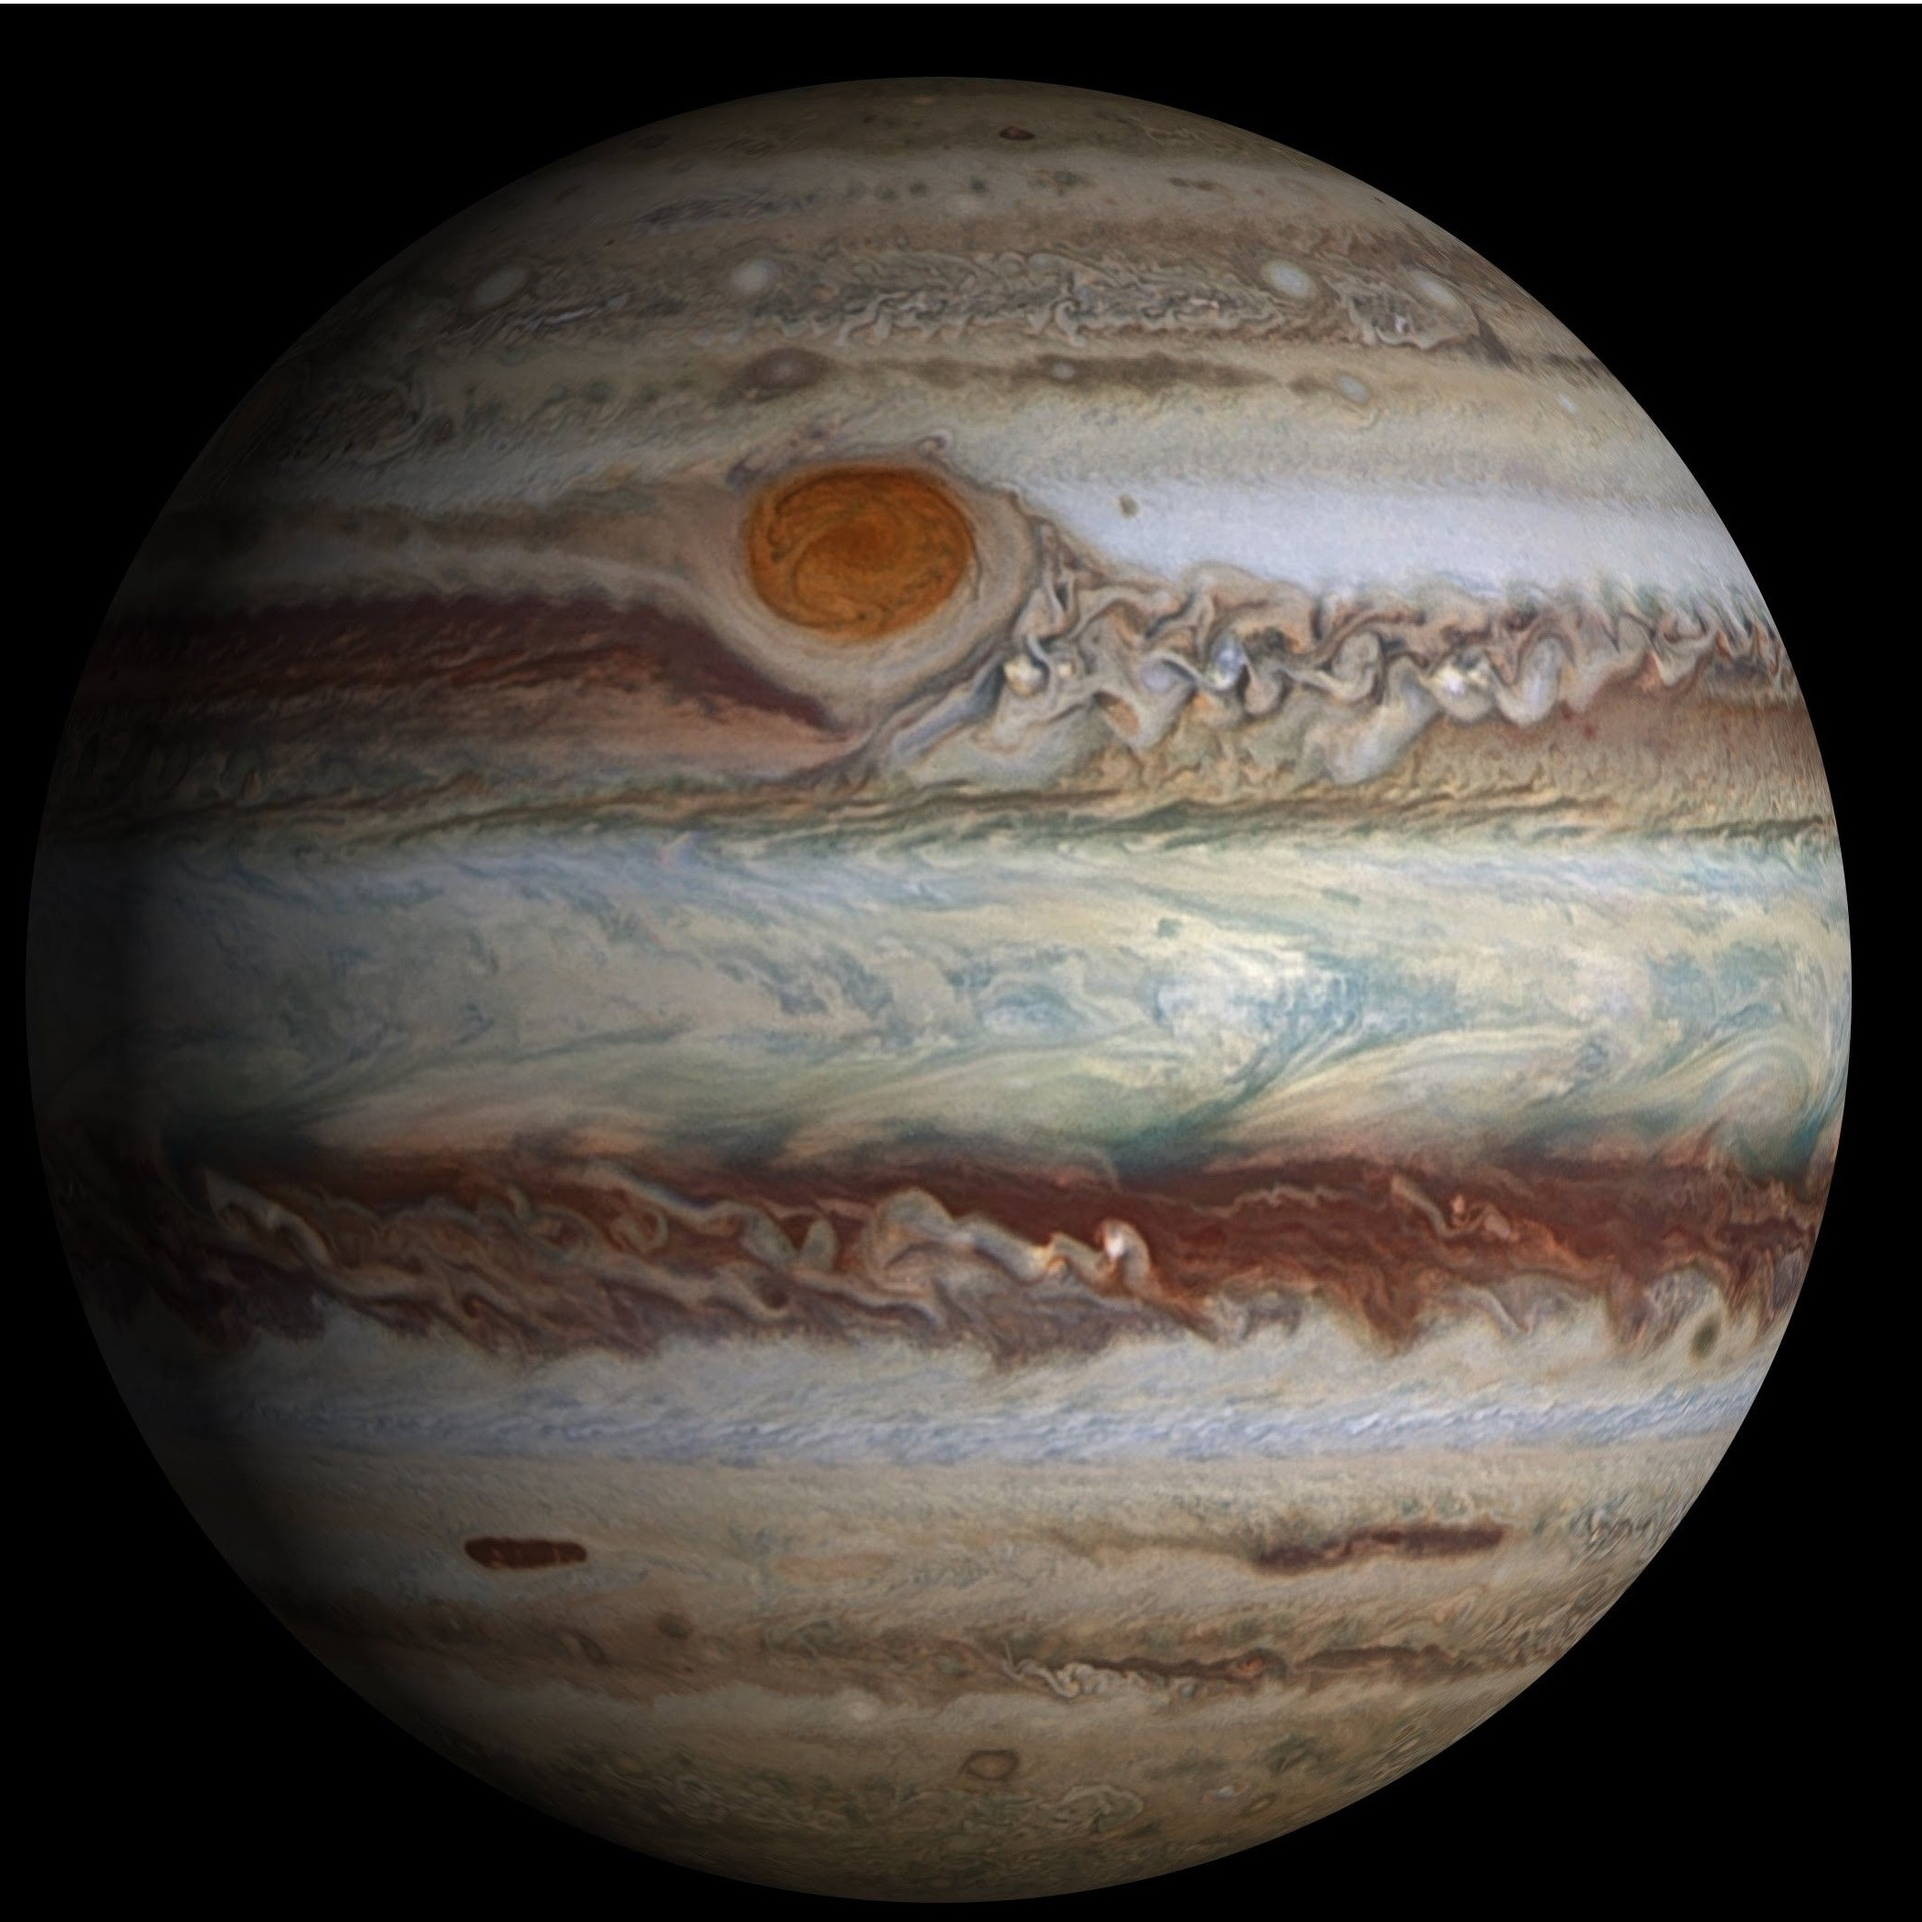
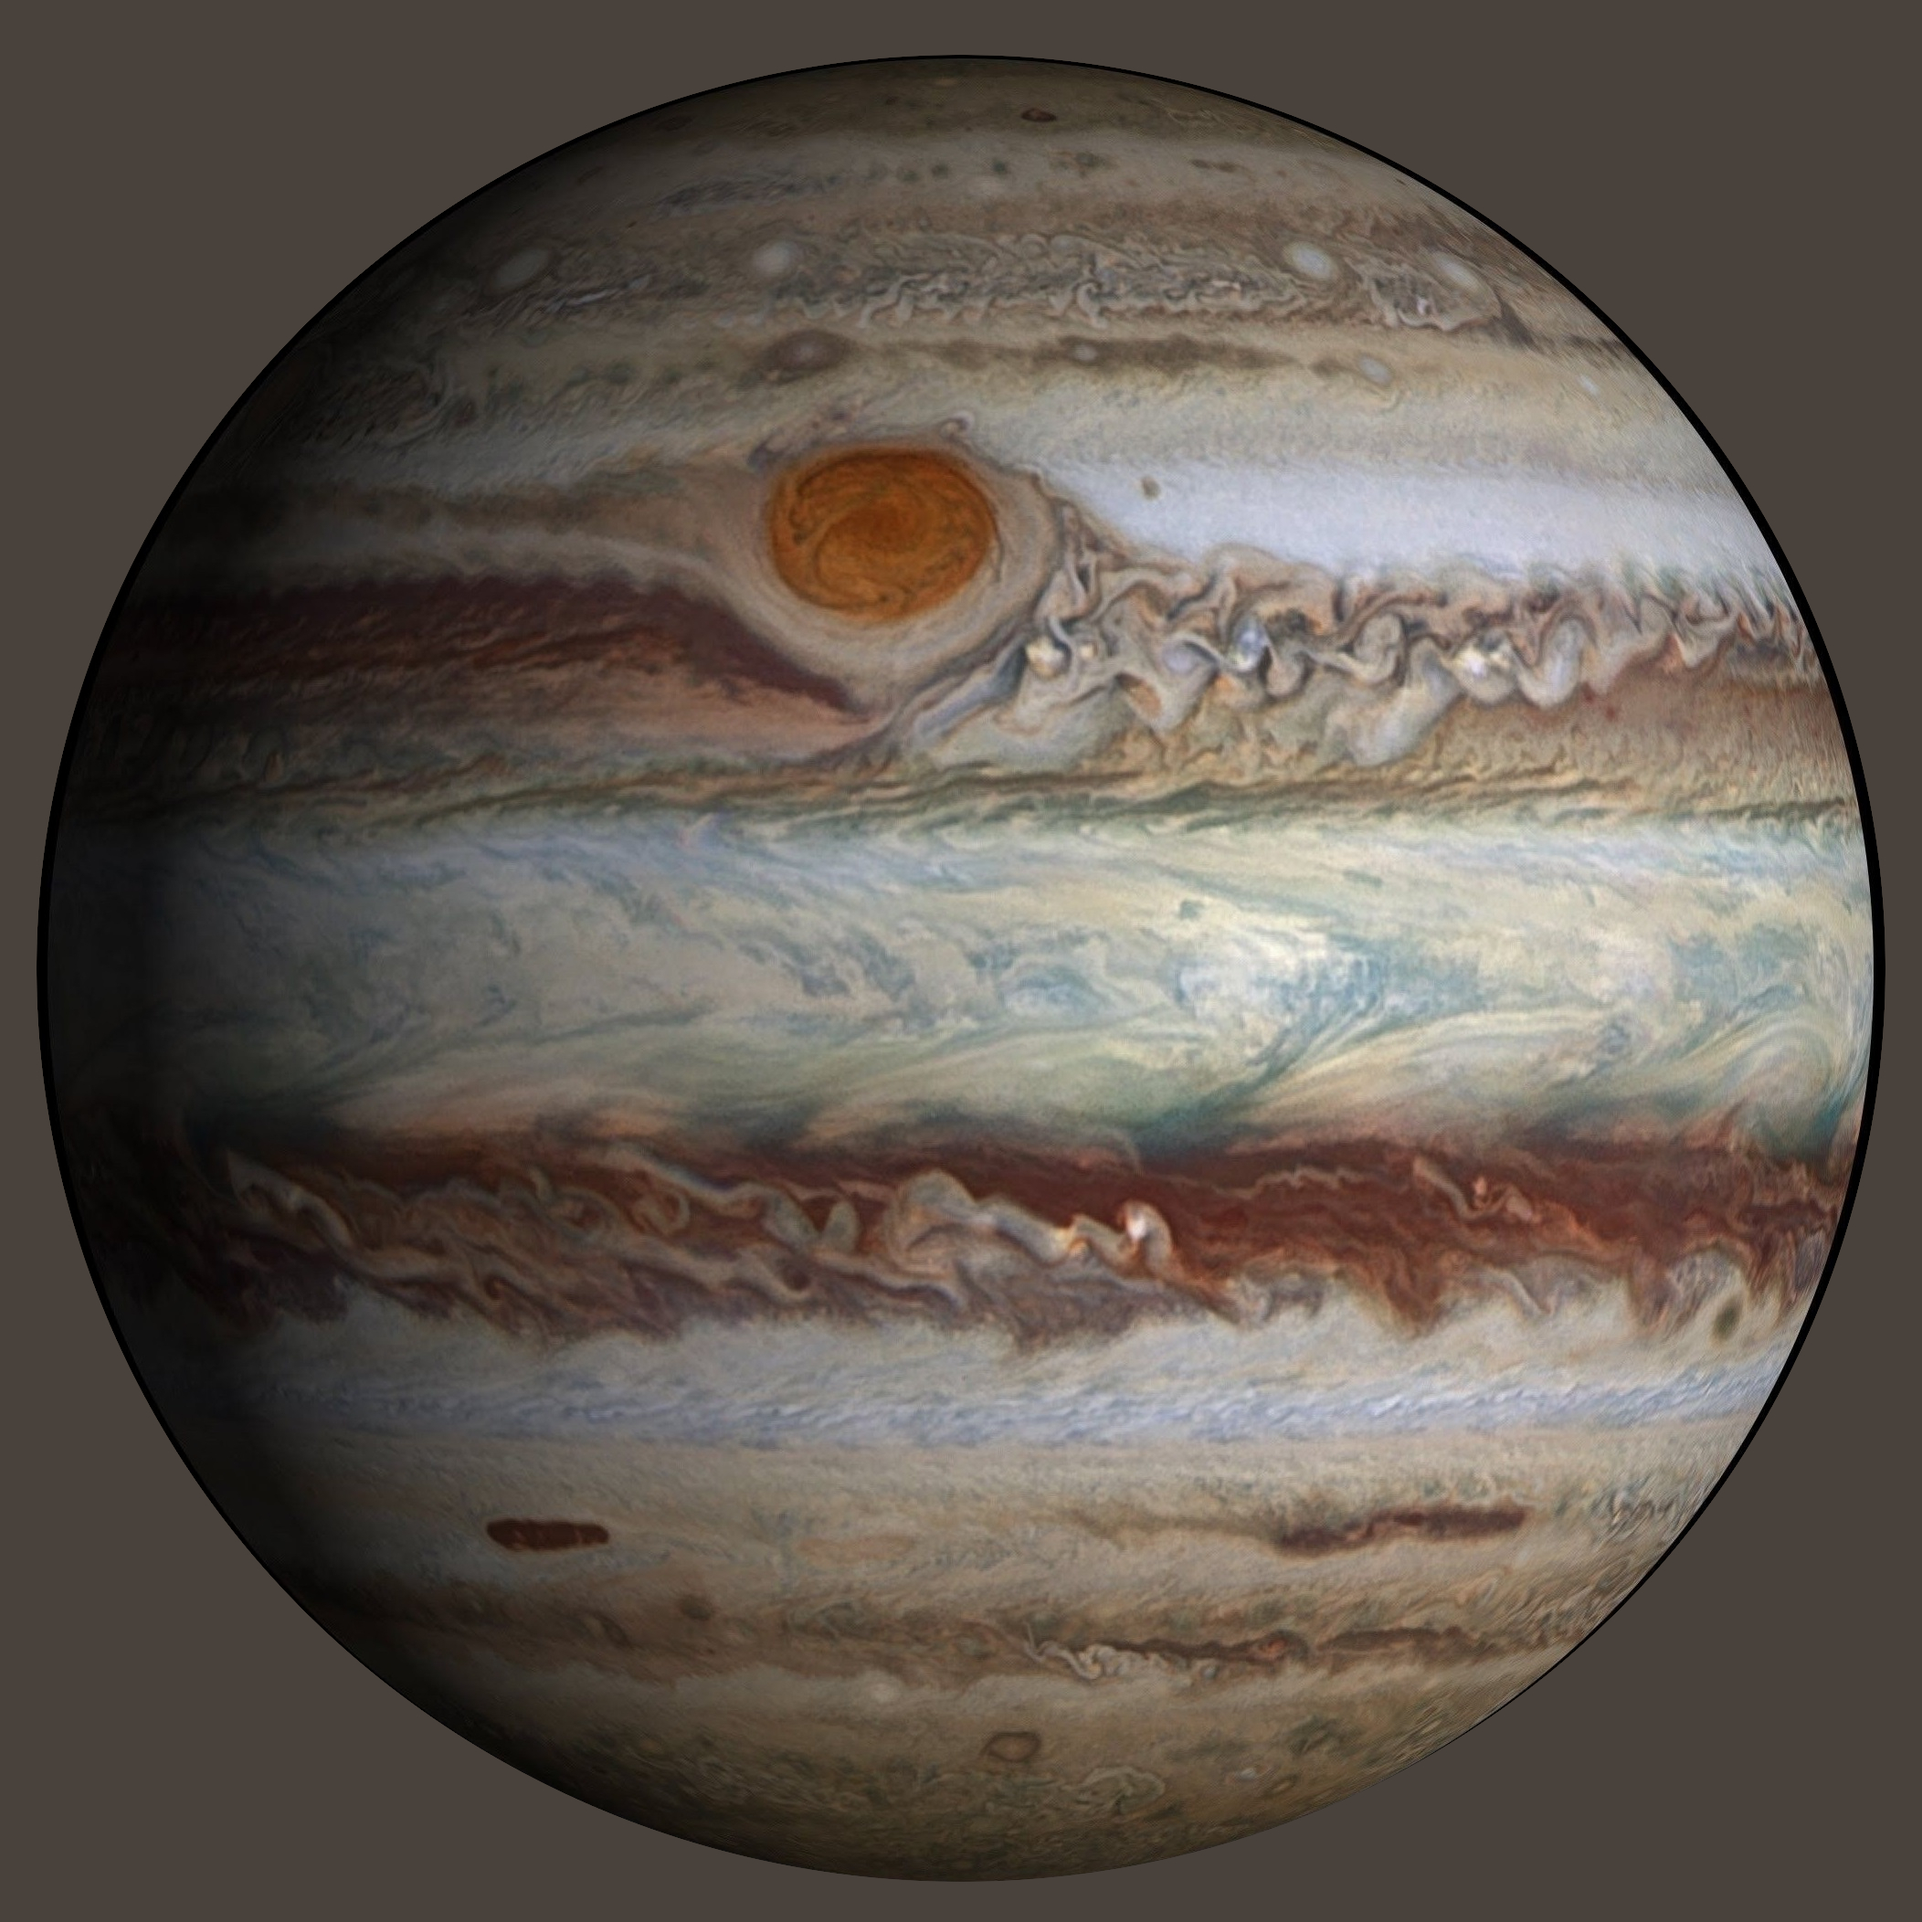
okok

diff --git a/Page/index.html b/Page/index.html
@@ -55,7 +55,7 @@
 
          <div class="container">
             <div class="container_left">
-                <img src="/images/jupiter.png" class="left_pic">
+                <img src="/images/jupiter.jpg" class="left_pic">
             </div>
            <div class="container_center">
 

diff --git a/CSS/style_container.css b/CSS/style_container.css
@@ -30,7 +30,7 @@
   }
   .left_pic {
       width: 100%;
-      
+      border-radius: 50%;
   }
 
   .container_left-list {
